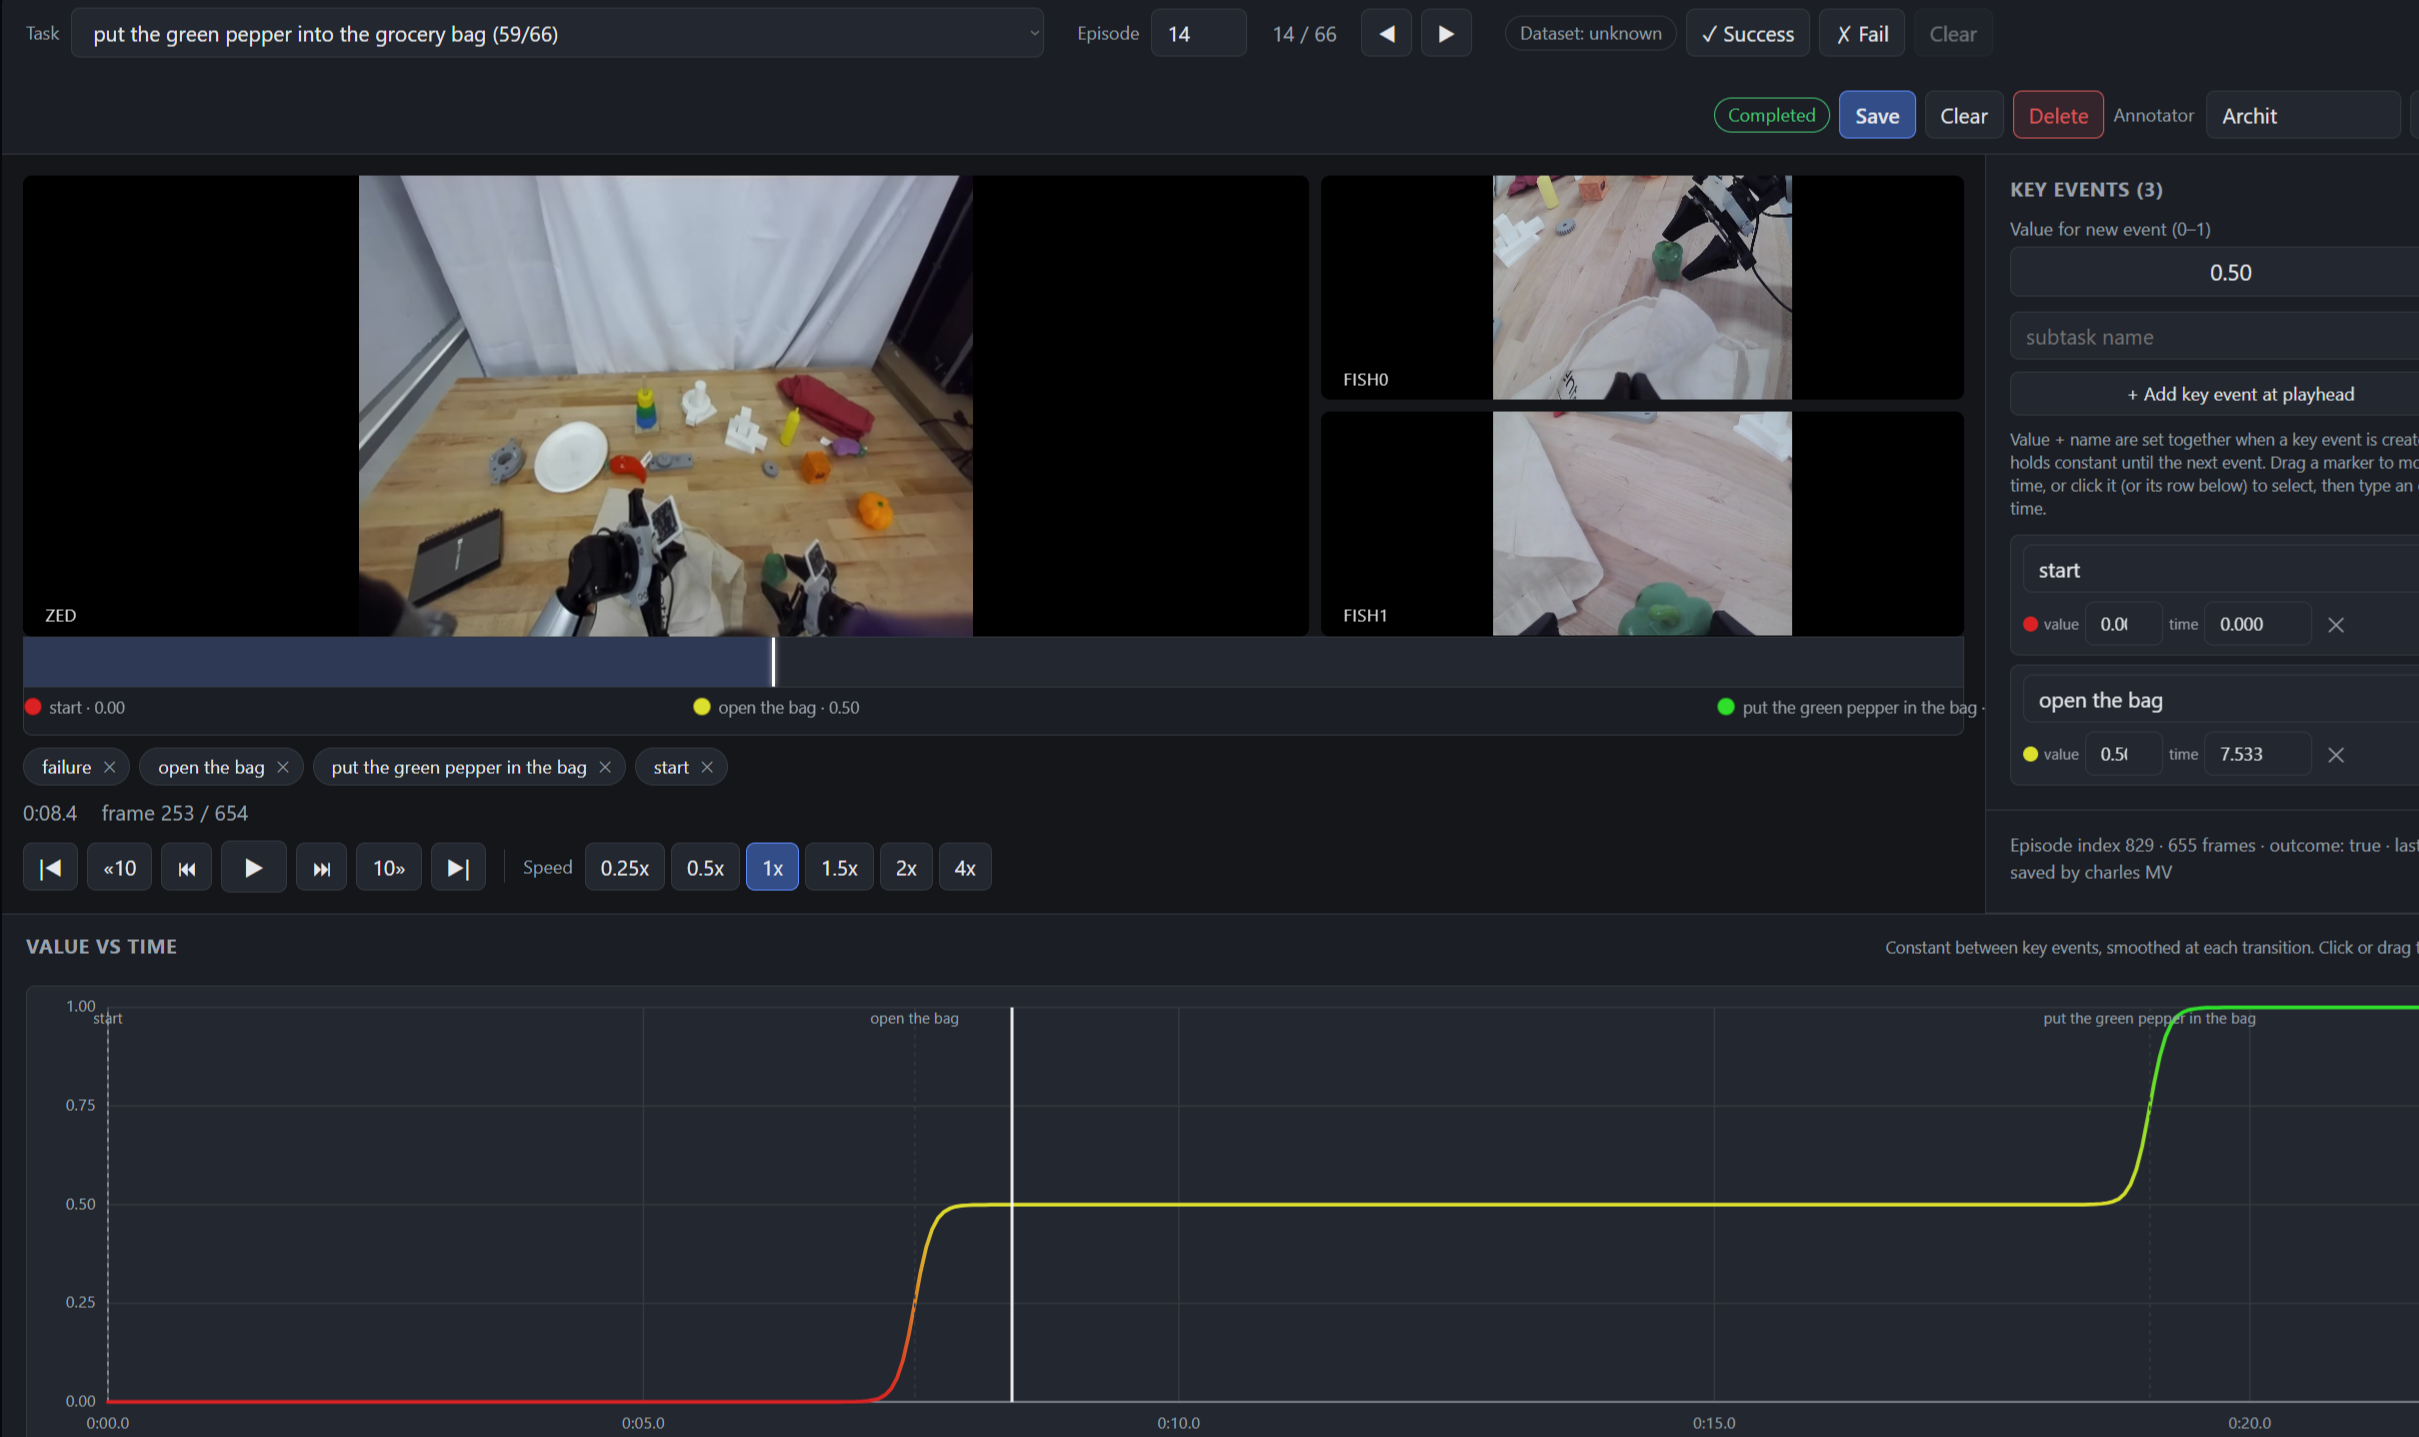
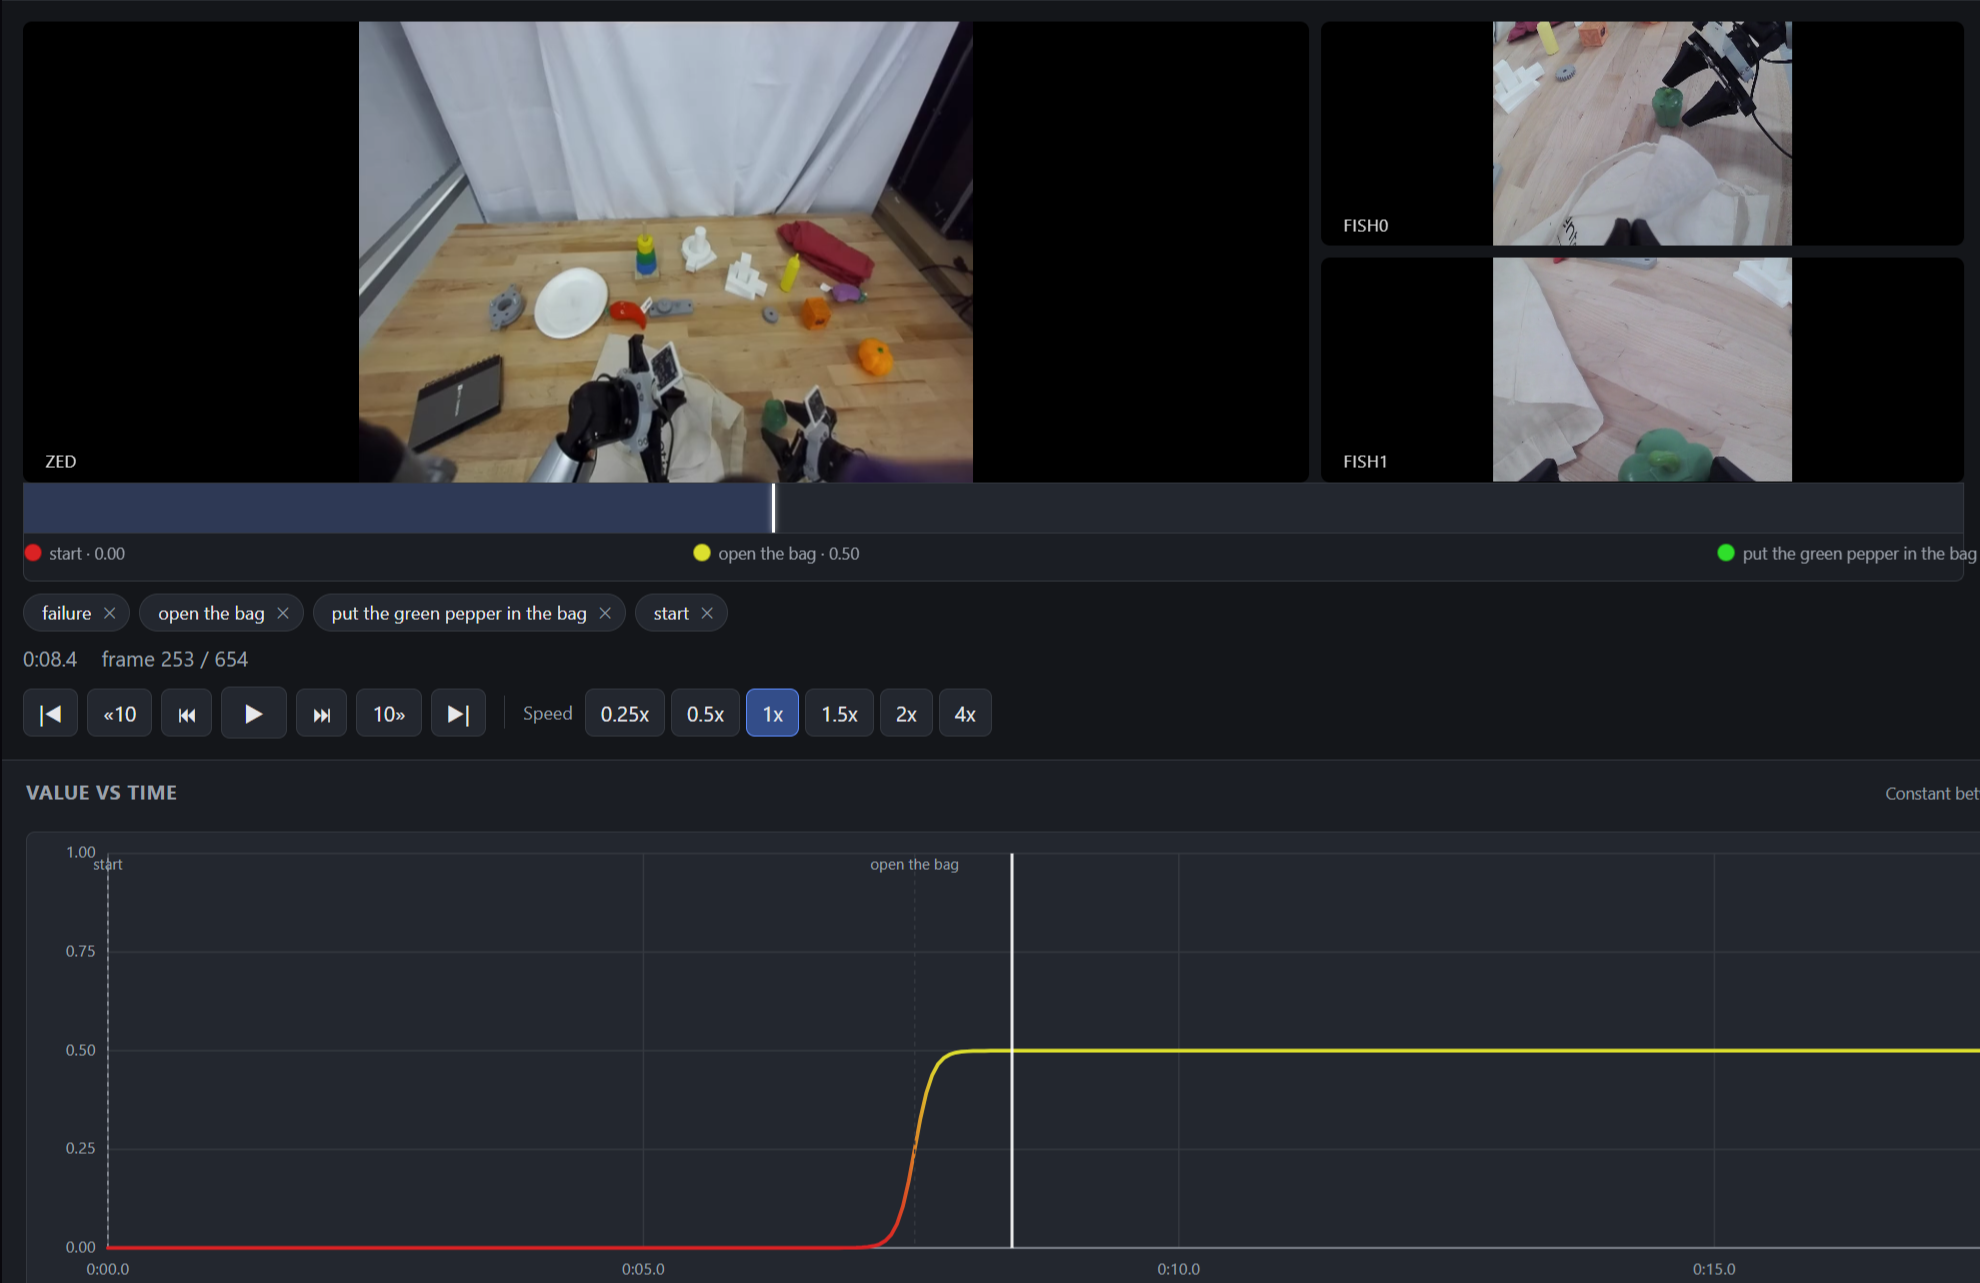
Center Manual Annotation thumbnail and update blurb

diff --git a/_pages/projects.md b/_pages/projects.md
@@ -37,7 +37,7 @@ permalink: /projects/
 <hr style="border: 0; border-top: 1px solid #eaeaea; margin: 30px 0;">
 
 <div style="margin-bottom: 40px; clear: both; overflow: hidden;">
-  <img src="{{ site.baseurl }}/images/manual_annotation.png" alt="Manual Annotation Platform" style="width: 250px; height: 250px; object-fit: cover; object-position: 0% 50%; border-radius: 8px; float: left; margin-right: 20px; margin-bottom: 10px; border: 1px solid #eaeaea;" />
+  <img src="{{ site.baseurl }}/images/manual_annotation.png" alt="Manual Annotation Platform" style="width: 250px; height: 250px; object-fit: cover; border-radius: 8px; float: left; margin-right: 20px; margin-bottom: 10px; border: 1px solid #eaeaea;" />
 
   <h3 style="margin-top: 0; display: flex; align-items: center;">
     Manual Annotation Platform
@@ -46,7 +46,7 @@ permalink: /projects/
     </a>
   </h3>
 
-  <p>A self-hosted, browser-based tool for dense, multi-annotator labeling of robot teleoperation episodes stored in LeRobot format on Hugging Face. Annotators scrub through synced multi-camera video and place key events (a subtask name and a 0-1 progress value), which are turned into a smooth progress curve over time. Incorrect success/fail labels can be overridden without modifying the source dataset. The resulting human progress annotations serve as ground truth for evaluating robot reward models.</p>
+  <p>Browser-based tool for dense labeling of robot teleoperation episodes using LeRobot Streaming. Annotators can scrub through YAM-style multi-camera video and place key events (subtask names and a 0-1 progress value). Incorrect success/fail labels can be corrected in GUI.</p>
 </div>
 
 <hr style="border: 0; border-top: 1px solid #eaeaea; margin: 30px 0;">
